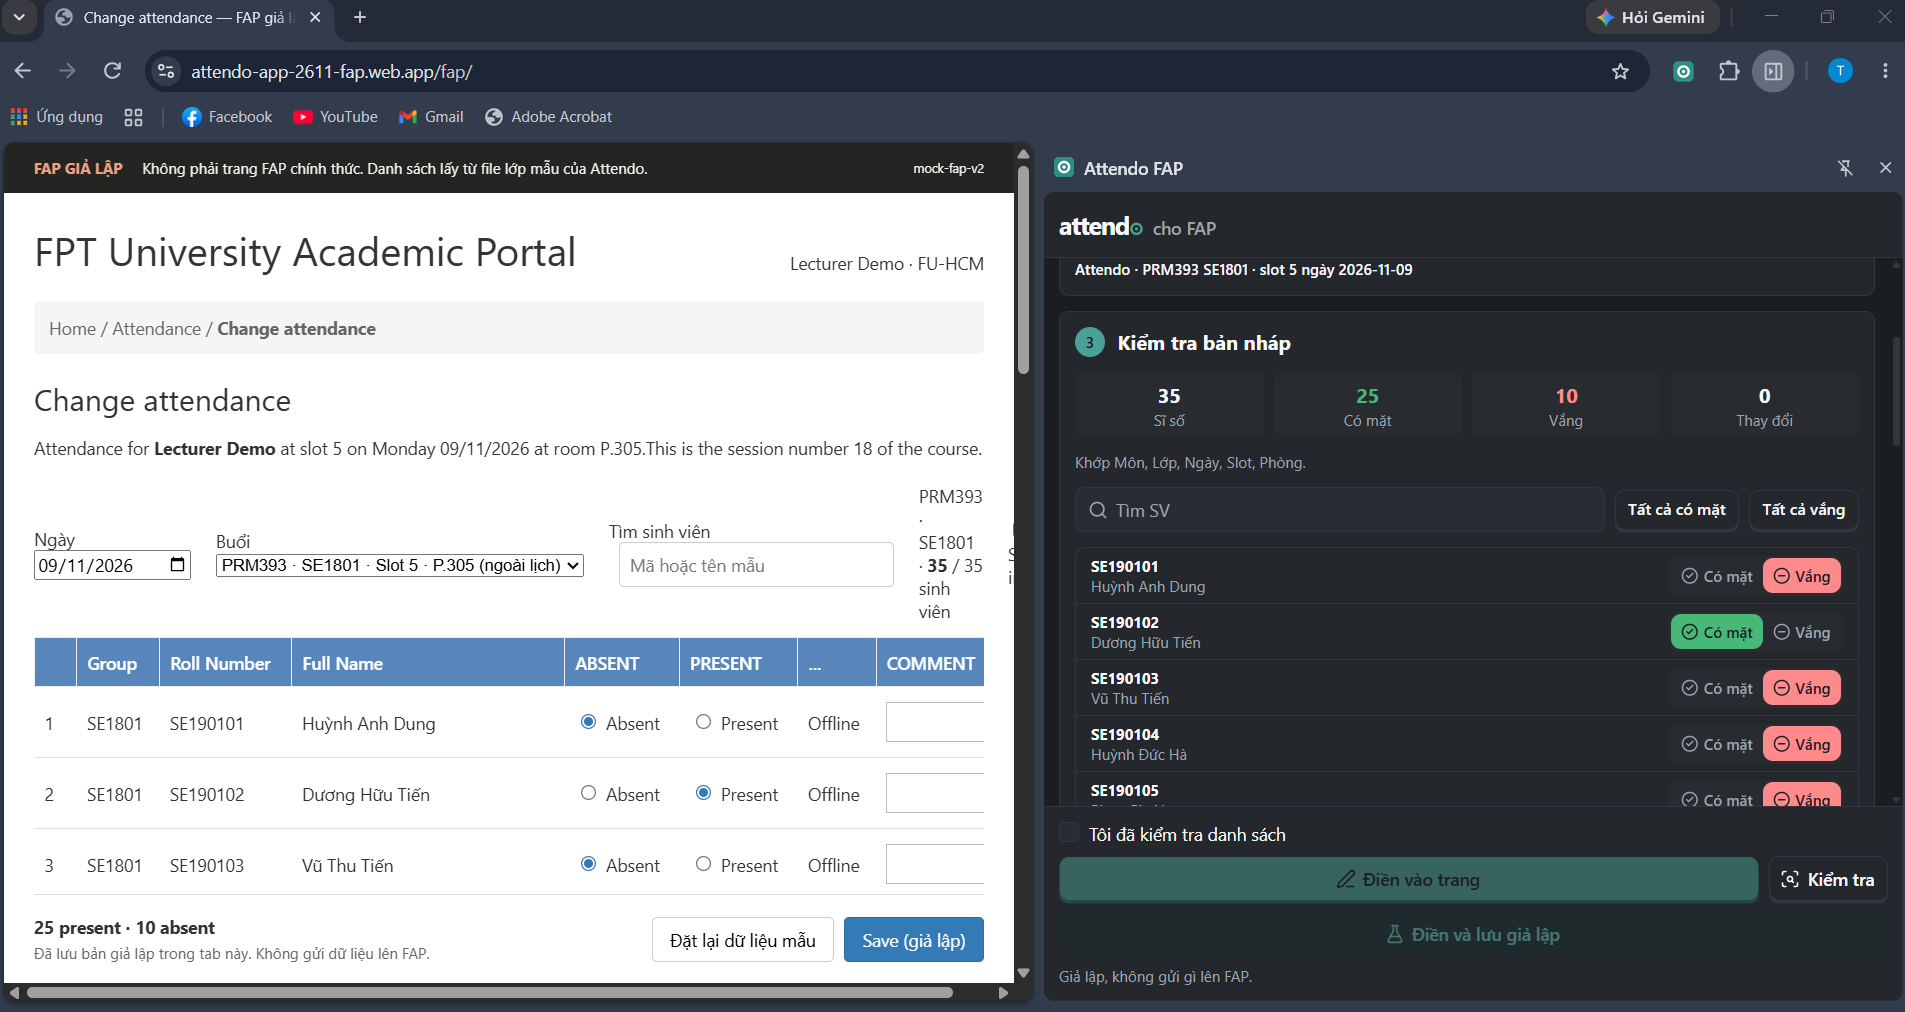
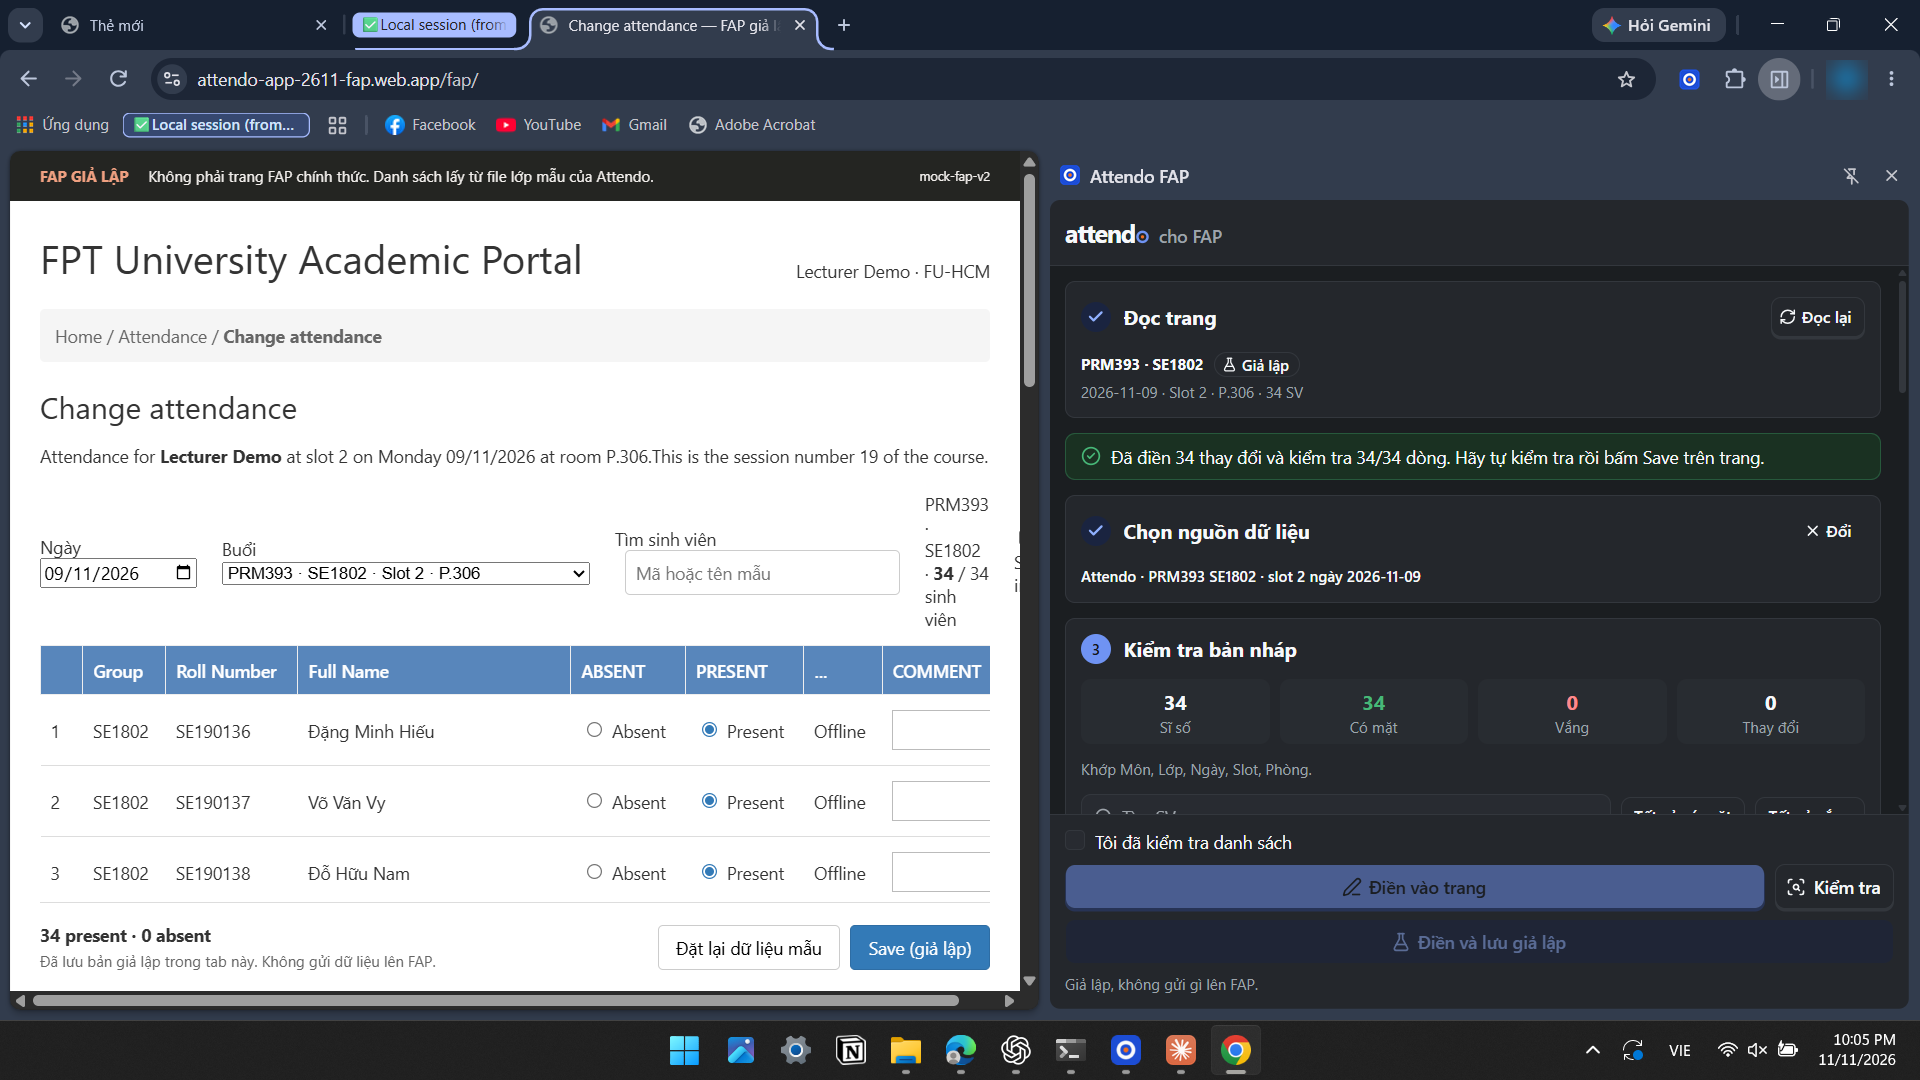
slides: use the recaptured web admin and extension shots
Claude-Session: https://claude.ai/code/session_01LiS5XmjWDKcUN5uBfPDZk5

diff --git a/slides/src/proofs.js b/slides/src/proofs.js
@@ -11,12 +11,12 @@
     debugview: { k: 'Analytics · DebugView', t: 'Đủ 13 trên 13 sự kiện có ảnh DebugView', d: 'Điện thoại thật, 10/11/2026: sign_up, import_classes, logout, login, attendance_session_open, attendance_close, view_class, export_report, view_student, reminder_send, correction_review. Web sinh viên, 11/11/2026: qr_scan, correction_submit (ảnh này).', img: 'assets/img/ev/analytics-04.png', href: blob('evidence/analytics/README.md') },
     cr44: { k: 'Code review', t: '44 phát hiện CR-01 đến CR-44', d: 'Claude review lượt 1 và 3 (CR-01 đến CR-14); CodeRabbit review PR #28 (CR-15 đến CR-30), PR #29 (CR-31 đến CR-39) và PR #30 (CR-40 đến CR-44). Mỗi dòng có file, loại, nhận hay bác và lý do; phát hiện nhận có commit sửa, phát hiện bác ghi lý do.', href: blob('docs/code-review.md') },
     unit70: { k: 'CI · flutter test', t: '59 test app + 11 test web admin đạt', d: 'Job "Analyze, test, build web", commit ae36281.', href: run(42608340989) },
-    t1: { k: 'Test tay · Firebase thật', t: 'T1 điểm danh trọn một buổi', d: 'thien chạy 09/11 19:00 đến 19:25: TV, quét QR bằng iPhone, extension điền FAP giả 25/35 khớp app và chặn sai ngày.', img: 'assets/img/ev/ext-02.png', href: blob('evidence/extension/README.md') },
-    extFill: { k: 'Test tay · Firebase thật', t: 'Extension điền 25 có mặt, 10 vắng', d: 'Bản nháp khớp Môn, Lớp, Ngày, Slot, Phòng; trang FAP giả 25 present · 10 absent.', img: 'assets/img/ev/ext-02.png', href: blob('evidence/extension/02-dien-25-co-mat.png') },
-    extBlock: { k: 'Test tay · Firebase thật', t: 'Extension chặn sai ngày', d: 'Trang FAP là PRN221 SE1810 ngày 09/11, nguồn là slot 04/11: báo "Ngày không khớp", không điền.', img: 'assets/img/ev/ext-03.png', href: blob('evidence/extension/03-chan-sai-ngay.png') },
+    t1: { k: 'Test tay · Firebase thật', t: 'T1 điểm danh trọn một buổi', d: 'thien chạy 09/11 19:00 đến 19:25: TV, quét QR bằng iPhone, extension điền FAP giả 25/35 khớp app và chặn sai ngày. Ảnh extension là lần chạy lại 11/11 (giao diện mới).', img: 'assets/img/ev/ext-02.png', href: blob('evidence/extension/README.md') },
+    extFill: { k: 'Test tay · Firebase thật', t: 'Extension điền 34 có mặt, 0 vắng', d: 'Chạy lại 11/11 22:05: slot PRM393 SE1802 09/11 slot 2 đã chốt 34/34. Bản nháp khớp Môn, Lớp, Ngày, Slot, Phòng; trang FAP giả 34 present · 0 absent.', img: 'assets/img/ev/ext-02.png', href: blob('evidence/extension/02-dien-25-co-mat.png') },
+    extBlock: { k: 'Test tay · Firebase thật', t: 'Extension chặn sai ngày', d: 'Chạy lại 11/11 22:07: trang FAP đổi sang ngày 11/11, nguồn là slot 09/11: báo "Ngày không khớp", không điền.', img: 'assets/img/ev/ext-03.png', href: blob('evidence/extension/03-chan-sai-ngay.png') },
     fcm3: { k: 'Test tay · FCM', t: 'Nhận thông báo ở cả 3 trạng thái app', d: 'Điện thoại Oppo, 11/11 21:21 đến 21:35: đang mở, ở nền, đã tắt. Gửi bằng tool/fcm/send.mjs qua workflow Demo: gửi FCM thử.', img: 'assets/img/ev/fcm-04.png', href: blob('evidence/fcm/README.md') },
-    crash: { k: 'Test tay · Crashlytics', t: 'Test crash lên console và web admin', d: '09/11 20:25 lỗi non-fatal, 20:26 Test crash: web admin Sự cố hiện ngay; Crashlytics console có 2 crash ngày 09/11.', img: 'assets/img/ev/crash-03.png', href: blob('evidence/crashlytics/README.md') },
-    crashWeb: { k: 'Test tay · web admin', t: 'Màn Sự cố nhận bản tóm tắt ngay', d: 'Hai dòng Lỗi non-fatal và Test crash, vai trò Giảng viên, nền tảng android.', img: 'assets/img/ev/crash-02.png', href: blob('evidence/crashlytics/02-web-admin-test-crash.png') },
+    crash: { k: 'Test tay · Crashlytics', t: 'Test crash lên console và web admin', d: 'Web admin Sự cố hiện ngay: chạy lại 11/11 21:41 lỗi non-fatal, 21:49 Test crash. Ảnh Crashlytics console là lần 09/11 (2 crash).', img: 'assets/img/ev/crash-03.png', href: blob('evidence/crashlytics/README.md') },
+    crashWeb: { k: 'Test tay · web admin', t: 'Màn Sự cố nhận bản tóm tắt ngay', d: '11/11 21:41 Lỗi non-fatal và 21:49 Test crash, vai trò Giảng viên, nền tảng android.', img: 'assets/img/ev/crash-02.png', href: blob('evidence/crashlytics/02-web-admin-test-crash.png') },
     dash98: { k: 'Firebase thật · Claude kiểm', t: 'Tổng quan admin: 4 lớp, 131 sinh viên, có mặt 98%', d: 'Sau khi sửa LOI-14 (chỉ mục tổng hợp sai thứ tự trường), 09/11 15:35. 2279 lượt có mặt, 47 vắng.', href: blob('docs/demo/loi.md') },
     lag: { k: 'Firebase thật · Claude đo', t: 'Mã mới tới máy chủ trong dưới 1,1 giây', d: 'Đo 09/11 19:05 trên app Windows: thời điểm đổi mã so với lúc tài liệu tv/{key} đổi trên máy chủ: 1,08 s, 0,32 s, 0,17 s.', href: blob('docs/demo/loi.md') },
     qrValid: { k: 'Thiết kế · Rules', t: 'Mã vừa thay còn nhận thêm 1 chu kỳ', d: 'qrTokenPrev + qrPrevExpiresAt: sinh viên quét chậm hoặc gõ mã số không bị báo hết hạn ngay lúc mã đổi. Có test Rules và E2E W48.', href: blob('firebase/firestore.rules') },

diff --git a/slides/src/lab3.html b/slides/src/lab3.html
@@ -220,7 +220,7 @@
     <div class="cols w40">
       <div class="stack">
         <div class="card"><h3>Hai đường cùng lúc</h3><p>App gửi crash cho Crashlytics như mọi app. Crashlytics không có API đọc cho client, nên app ghi thêm một bản tóm tắt vào <code>crashReports</code>; Rules chỉ cho admin đọc.</p></div>
-        <div class="card soft"><p><span class="pf" data-p="crash">Test crash 09/11 20:26</span>: web admin hiện ngay, console có crash cùng ngày.</p></div>
+        <div class="card soft"><p><span class="pf" data-p="crash">Test crash 11/11 21:49</span>: web admin hiện ngay; ảnh console là lần chạy 09/11.</p></div>
         <div class="card flat"><p class="sm"><b>Khóa tuỳ chỉnh</b>: <code>role</code>, <code>term</code>, <code>last_error_where</code>, để biết lỗi xảy ra ở bước nào.</p></div>
       </div>
       <div class="cols" style="gap:20px">
@@ -229,7 +229,7 @@
       </div>
     </div>
   </div>
-  <aside class="notes">Crashlytics: thầy dặn có nút làm app crash và admin xem được trên web. Nút Test crash nằm ở Khu demo. Vấn đề là Crashlytics không có API cho client đọc, nên ngoài báo cáo gửi Crashlytics, app ghi thêm một bản tóm tắt vào Firestore, chỉ admin đọc được. Ảnh bên trái là web admin hiện dòng Test crash ngay lúc bấm; bên phải là Crashlytics console có crash cùng ngày. Stack đầy đủ thì xem ở console.</aside>
+  <aside class="notes">Crashlytics: thầy dặn có nút làm app crash và admin xem được trên web. Nút Test crash nằm ở Khu demo. Vấn đề là Crashlytics không có API cho client đọc, nên ngoài báo cáo gửi Crashlytics, app ghi thêm một bản tóm tắt vào Firestore, chỉ admin đọc được. Ảnh bên trái là web admin hiện dòng Test crash ngay lúc bấm; bên phải là Crashlytics console với hai crash của lần chạy 09/11. Stack đầy đủ thì xem ở console.</aside>
 </section>
 
 <section class="slide" data-title="Remote Config" data-sec="Remote Config">
@@ -377,7 +377,7 @@
     <table class="t">
       <tr><th>Dịch vụ</th><th>Bằng chứng</th><th>Loại</th></tr>
       <tr><td>Authentication, Firestore</td><td><span class="pf" data-p="rules196">196 ca Rules</span>, <span class="pf" data-p="e2e33">33 ca E2E</span></td><td><span class="chip ok">CI</span></td></tr>
-      <tr><td>Mã QR, TV, extension</td><td><span class="pf" data-p="t1">T1 trọn một buổi</span>, <span class="pf" data-p="extFill">extension 25/35</span>, <span class="pf" data-p="lag">trễ &lt; 1,1 s</span></td><td><span class="chip brand">Firebase thật</span></td></tr>
+      <tr><td>Mã QR, TV, extension</td><td><span class="pf" data-p="t1">T1 trọn một buổi</span>, <span class="pf" data-p="extFill">extension 34/34</span>, <span class="pf" data-p="lag">trễ &lt; 1,1 s</span></td><td><span class="chip brand">Firebase thật</span></td></tr>
       <tr><td>Cloud Messaging</td><td><span class="pf" data-p="fcm3">3 trạng thái app</span></td><td><span class="chip brand">Điện thoại thật</span></td></tr>
       <tr><td>Crashlytics</td><td><span class="pf" data-p="crash">console + web admin</span>, <span class="pf" data-p="crashKeys">tab Keys</span></td><td><span class="chip brand">Firebase thật</span></td></tr>
       <tr><td>Remote Config, AI Logic</td><td><span class="pf" data-p="rc9">9 tham số</span>, <span class="pf" data-p="rcE4">đổi trên console, app đổi theo</span>, <span class="pf" data-p="ai">Gợi ý AI chạy</span></td><td><span class="chip brand">Firebase thật</span></td></tr>

diff --git a/slides/src/final.html b/slides/src/final.html
@@ -231,7 +231,7 @@
     <table class="t">
       <tr><th>Yêu cầu</th><th>Màn</th><th>Test tự động</th><th>Bằng chứng thật</th></tr>
       <tr><td>Điểm danh một buổi (WF-01)</td><td>GV-102, SV-101, TV-001</td><td>E2E W03, W48, W70</td><td><span class="pf" data-p="t1">T1</span>, <span class="pf" data-p="lag">trễ &lt; 1,1 s</span></td></tr>
-      <tr><td>Điền FAP từ bản đã chốt</td><td>Extension</td><td>E2E W60</td><td><span class="pf" data-p="extFill">25/35 khớp</span>, <span class="pf" data-p="extBlock">chặn sai ngày</span></td></tr>
+      <tr><td>Điền FAP từ bản đã chốt</td><td>Extension</td><td>E2E W60</td><td><span class="pf" data-p="extFill">34/34 khớp</span>, <span class="pf" data-p="extBlock">chặn sai ngày</span></td></tr>
       <tr><td>Báo sai, duyệt (WF-02)</td><td>SV-102, GV-105</td><td>E2E W11, W12</td><td>Claude chạy trên Firebase thật 09/11</td></tr>
       <tr><td>Duyệt lớp liên vai trò (WF-03)</td><td>Web Duyệt lớp, GV-003</td><td>E2E W20, W61</td><td><span class="pf" data-p="t3">T3</span></td></tr>
       <tr><td>Web admin: tổng quan, sự cố</td><td>Admin</td><td>E2E W30, W34</td><td><span class="pf" data-p="dash98">98% có mặt</span>, <span class="pf" data-p="crashWeb">Sự cố</span></td></tr>

diff --git a/docs/slides/SCRIPT.md b/docs/slides/SCRIPT.md
@@ -44,7 +44,7 @@ Analytics: em không ghi sự kiện cho có. Mỗi sự kiện gắn với mộ
 
 ### Slide 10 · Crashlytics (40 giây)
 
-Crashlytics: thầy dặn có nút làm app crash và admin xem được trên web. Nút Test crash nằm ở Khu demo. Vấn đề là Crashlytics không có API cho client đọc, nên ngoài báo cáo gửi Crashlytics, app ghi thêm một bản tóm tắt vào Firestore, chỉ admin đọc được. Ảnh bên trái là web admin hiện dòng Test crash ngay lúc bấm; bên phải là Crashlytics console có crash cùng ngày. Stack đầy đủ thì xem ở console.
+Crashlytics: thầy dặn có nút làm app crash và admin xem được trên web. Nút Test crash nằm ở Khu demo. Vấn đề là Crashlytics không có API cho client đọc, nên ngoài báo cáo gửi Crashlytics, app ghi thêm một bản tóm tắt vào Firestore, chỉ admin đọc được. Ảnh bên trái là web admin hiện dòng Test crash ngay lúc bấm; bên phải là Crashlytics console với hai crash của lần chạy 09/11. Stack đầy đủ thì xem ở console.
 
 ### Slide 11 · Remote Config (40 giây)
 
